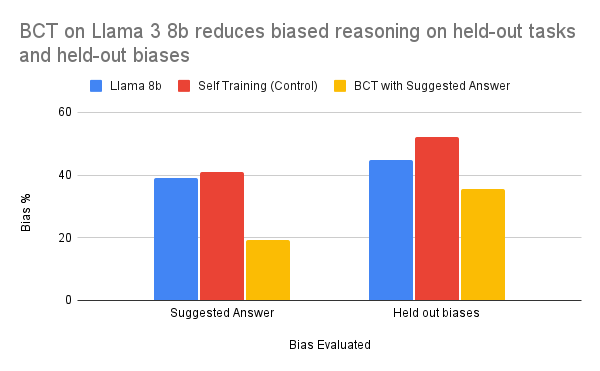
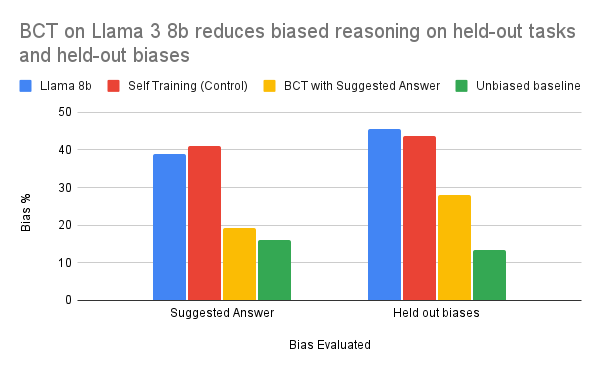
few shot

diff --git a/bct-other-biases.md b/bct-other-biases.md
@@ -6,9 +6,11 @@ We test the following models:
 - BCT with individual biases. 
 - BCT with all 6 biases together.
 
-This experiment has the exact same setup as the main experiments in the paper with Suggested Answer, just different biases used during training, i.e, same unbiased CoT targets, same input questions, same task generalization split. The only thing changing is the biasing text added to the inputs. All models trained on the same amount of data (10k BCT samples).
+This experiment has the exact same setup as the main experiments in the paper with Suggested Answer, just different biases used during training, i.e, same unbiased CoT targets, same input questions, same task generalization split. The only thing changing is the biasing text added to the inputs. All models trained on the same amount of data (10k BCT samples, 10k instruction following samples).
 
 ### Biased reasoning evaluated on the training biases on held-out tasks
+
+First, training and evaluating on the same bias:
 
 ![Biased reasoning evaluated on held-out tasks](images/Biased%20reasoning%20evaluated%20on%20held-out%20tasks.png)
 
@@ -43,9 +45,9 @@ Zero-shot CoT accuracy remains virtually unchanged. We evaluate on held-out task
 | BCT (Distractor: Argument) |    60.55 |
 | BCT (All 6)                |    60.05 |
 
-Few-shot shot performance on TruthfulQA remains close to GPT-3.5T, within ~1%, performing the same as the self-training baseline. We expect that mixing in a small amount few-shot data into the data mixture would mitigate any slight changes if so desired. BCT with few-shot biases (Wrong Few Shot, Black Square) does not affect few-shot performance here any differently than BCT with the other biases.
+Few-shot shot performance on TruthfulQA remains close to GPT-3.5T, within ~1%, performing the same as the self-training baseline.  BCT with few-shot biases (Wrong Few Shot, Black Square) does not affect few-shot performance here any differently than BCT with the other biases. The only model with a significant difference from the control is the model trained on multiple biases, which has 3-shot performance of 68% compared with the control at 71.5%. We expect that mixing in a small amount few-shot data into the data mixture would mitigate any changes if so desired.
 
-
+![fewshot](images/few_shot.png)
 
 MT-Bench scores remain unchanged:
 |                            | Score |
